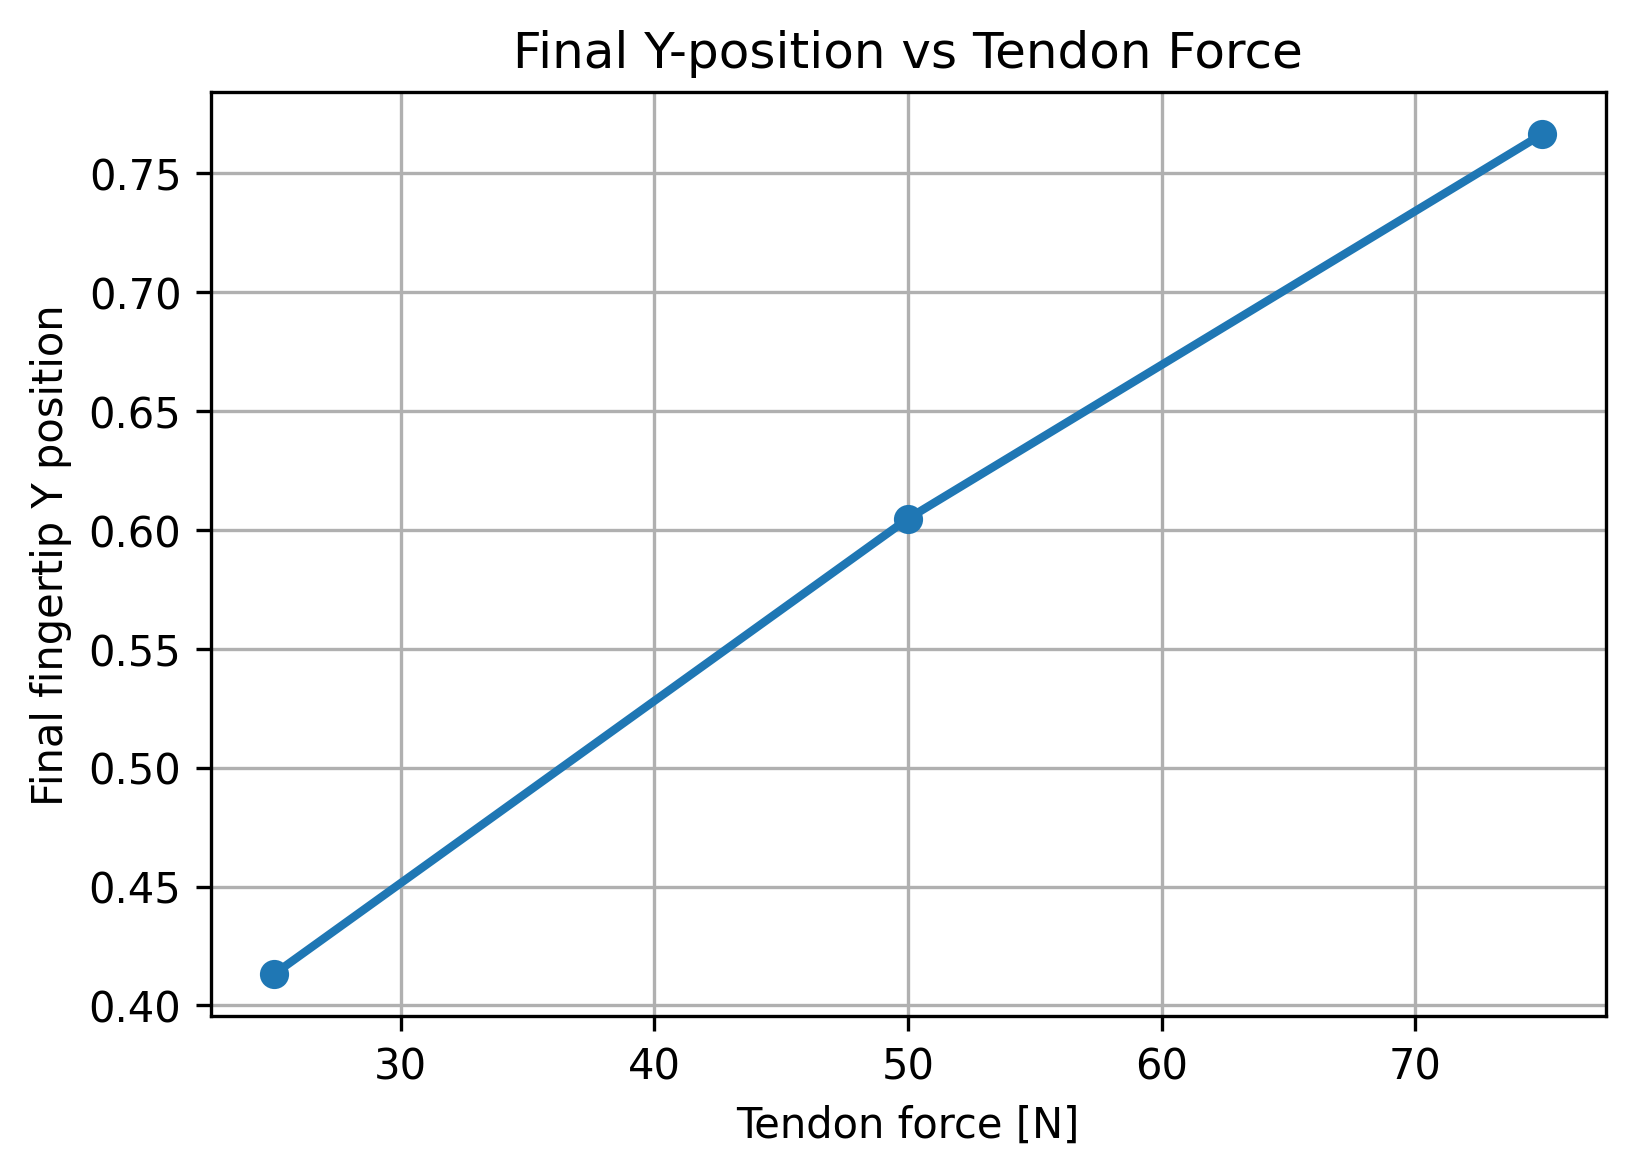
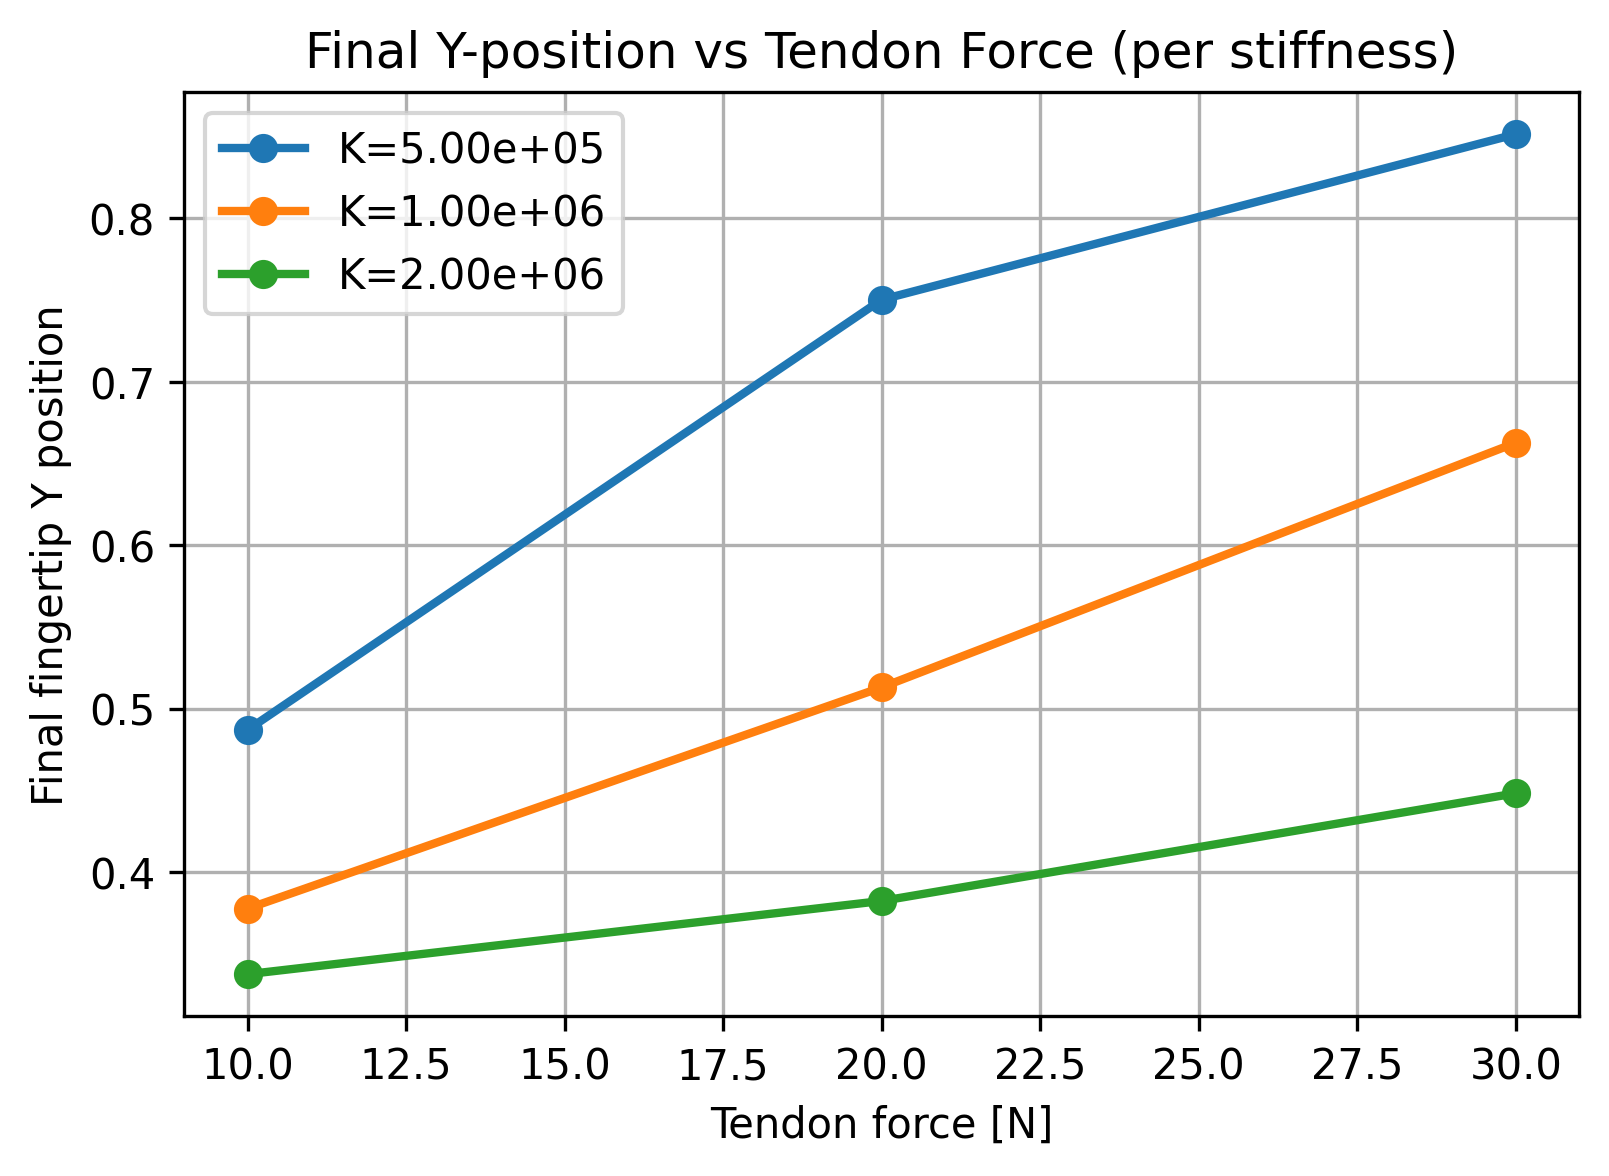
variable stiffness added in plots

diff --git a/code/forward_forces.py b/code/forward_forces.py
@@ -638,6 +638,30 @@ class FEMTendon:
         tip_traj = np.array(tip_traj)
 
         return tip_traj
+    
+    def set_stiffness(self, K: float):
+        """
+        Set a uniform stiffness K (bulk modulus, same meaning as builder.init_K)
+        for all tet blocks and update the material parameters.
+        """
+        logK = float(np.log(K))  # natural log, consistent with sample_logk
+
+        # create Warp array for per-block log(K)
+        self.log_K_warp = wp.from_numpy(
+            np.zeros(self.block_num, dtype=np.float32) + logK,
+            dtype=wp.float32,
+            requires_grad=self.requires_grad,
+        )
+
+        # push to tet_materials
+        wp.launch(
+            update_materials,
+            dim=len(self.model.tet_materials),
+            inputs=[self.log_K_warp, self.v, self.tet_block_ids],
+            outputs=[self.model.tet_materials],
+        )
+
+        
 
 
 if __name__ == "__main__":
@@ -689,103 +713,64 @@ if __name__ == "__main__":
         finger_transform = None
         init_finger = None
 
-        # choose forces to test
-        force_values = [25.0,50.0,75.0]
-        #force_values = [50.0]
-        trajectories = {}  # force -> (T, 3)
-        all_rows = []      # for CSV: list of [force, t, x, y, z]
-        sample_dt = {}   # force -> time step
+        force_values = [10.0, 20.0, 30.0]
+        stiffness_values = [5e5, 1e6, 2e6]
 
-        for F in force_values:
-            print(f"\n=== Running simulation with tendon force {F} ===")
+        trajectories = {}   # (F, K) -> (T, 3)
+        sample_dt = {}      # (F, K) -> dt
 
-            # new instance per force so initial state is clean
-            tendon = FEMTendon(
-                stage_path=args.stage_path,
-                num_frames=args.num_frames,
-                verbose=args.verbose,
-                save_log=False,
-                log_prefix=args.log_prefix,
-                is_render=args.is_render,              # no USD render needed for now
-                kernel_seed=np.random.randint(0, 10000),
-                train_iters=args.pose_iters,
-                object_rot=object_rot,
-                object_density=args.object_density,
-                ycb_object_name=args.object_name,
-                use_graph=args.use_graph,
-                finger_len=finger_len,
-                finger_rot=finger_rot,
-                finger_width=finger_width,
-                scale=scale,
-                finger_transform=finger_transform,
-                finger_num=args.finger_num,
-                quick_viz=args.quick_viz,
-                quick_viz_stride = args.quick_viz_stride,
-                quick_viz_interval=args.quick_viz_interval,
-                quick_viz_every=args.quick_viz_every,
-                quick_viz_save=args.quick_viz_save,
-                quick_viz_elev=args.quick_viz_elev,
-                quick_viz_azim=args.quick_viz_azim,
-                init_finger=init_finger)
+        for K in stiffness_values:
+            print(f"\n=== Using stiffness K = {K:.2e} ===")
+            for F in force_values:
+                print(f"   -> Running simulation with tendon force {F} N")
 
-            tendon.set_tendon_force(F)
-            tip_traj = tendon.run_and_record_tip(finger_index=0)  # (T,3)
-            trajectories[F] = tip_traj
-            # store time step for this run
-            sample_dt[F] = tendon.sim_dt
+                tendon = FEMTendon(
+                    stage_path=args.stage_path,
+                    num_frames=args.num_frames,
+                    verbose=args.verbose,
+                    save_log=False,
+                    log_prefix=args.log_prefix,
+                    is_render=args.is_render,
+                    kernel_seed=np.random.randint(0, 10000),
+                    train_iters=args.pose_iters,
+                    object_rot=object_rot,
+                    object_density=args.object_density,
+                    ycb_object_name=args.object_name,
+                    use_graph=args.use_graph,
+                    finger_len=finger_len,
+                    finger_rot=finger_rot,
+                    finger_width=finger_width,
+                    scale=scale,
+                    finger_transform=finger_transform,
+                    finger_num=args.finger_num,
+                    quick_viz=args.quick_viz,
+                    quick_viz_stride=args.quick_viz_stride,
+                    quick_viz_interval=args.quick_viz_interval,
+                    quick_viz_every=args.quick_viz_every,
+                    quick_viz_save=args.quick_viz_save,
+                    quick_viz_elev=args.quick_viz_elev,
+                    quick_viz_azim=args.quick_viz_azim,
+                    init_finger=init_finger,
+                )
 
+                tendon.set_stiffness(K)
+                tendon.set_tendon_force(F)
 
-        # ---------- Matplotlib plot (all forces, full trajectories) ----------
-        plt.figure(figsize=(8, 6))
+                tip_traj = tendon.run_and_record_tip(finger_index=0)  # (T, 3)
 
-        for F, traj in trajectories.items():
-            if traj.size == 0:
-                print(f"Skipping F={F} because trajectory is empty.")
-                continue
+                trajectories[(F, K)] = tip_traj
+                sample_dt[(F, K)] = tendon.sim_dt
 
-            # filter out NaNs/Infs if any
-            if traj.ndim != 2 or traj.shape[1] != 3:
-                print(f"Skipping F={F}: unexpected traj shape {traj.shape}")
-                continue
+                # just to confirm:
+                K_current = float(np.exp(tendon.log_K_warp.numpy()[0]))
+                print(f"Force {F} N used stiffness K = {K_current:.3e}")
 
-            mask = np.isfinite(traj).all(axis=1)
-            if not np.any(mask):
-                print(f"Skipping F={F}: no finite points.")
-                continue
-
-            # extract and reverse so that t=0 is at the "start" of the curve
-            x = traj[mask, 0][::-1]
-            y = traj[mask, 1][::-1]   # (x, y) plane
-
-            if x.size == 0:
-                print(f"Skipping F={F}: no valid samples after masking.")
-                continue
-
-            plt.plot(x, y, label=f"{F:.1f} N")
-
-        plt.xlabel("Tip X position")
-        plt.ylabel("Tip Y position")
-        plt.title("Fingertip trajectory for different tendon forces")
-        plt.grid(True)
-        plt.legend()
-
-        ax = plt.gca()
-        ax.set_aspect('equal', adjustable='box')
-        ax.invert_xaxis()   # flip X axis direction
-        #ax.invert_yaxis()   # flip Y axis direction  (optional)
-
-        out_path = "fingertip_trajectories.png"
-        plt.savefig(out_path, dpi=300, bbox_inches="tight")
-        print(f"Saved trajectory figure to {out_path}")
-        # plt.show()
-
-        # ---------- New: Y-position vs time ----------
+        # ---------- Y-position vs time ----------
         plt.figure(figsize=(8, 4))
 
-        for F, traj in trajectories.items():
+        for (F, K), traj in trajectories.items():
             if traj.size == 0:
                 continue
-
             if traj.ndim != 2 or traj.shape[1] != 3:
                 continue
 
@@ -793,14 +778,13 @@ if __name__ == "__main__":
             if not np.any(mask):
                 continue
 
-            # we want chronological order now → no [::-1] here
-            y = traj[mask, 1]   # y-coordinate
+            y = traj[mask, 1]
             n = y.size
+            dt = float(sample_dt[(F, K)])
+            t = np.arange(n) * dt
 
-            dt = float(sample_dt[F])
-            t = np.arange(n) * dt   # time in seconds
-
-            plt.plot(t, y, label=f"{F:.1f} N")
+            label = f"F={F:.1f} N, K={K:.2e}"
+            plt.plot(t, y, label=label)
 
         plt.xlabel("Time [s]")
         plt.ylabel("Tip Y position")
@@ -811,13 +795,14 @@ if __name__ == "__main__":
         out_path_y = "fingertip_y_vs_time.png"
         plt.savefig(out_path_y, dpi=300, bbox_inches="tight")
         print(f"Saved Y-vs-time figure to {out_path_y}")
-        # plt.show()
 
-        # ---------- New Plot: Final tip Y vs tendon force ----------
-        forces = []
-        final_y_positions = []
+        # ---------- Final tip Y vs tendon force (one curve per stiffness) ----------
+        from collections import defaultdict
 
-        for F, traj in trajectories.items():
+        forces_by_K = defaultdict(list)
+        final_y_by_K = defaultdict(list)
+
+        for (F, K), traj in trajectories.items():
             if traj.size == 0:
                 continue
 
@@ -826,39 +811,38 @@ if __name__ == "__main__":
                 continue
 
             traj_valid = traj[mask]
-
-            # final Y position (take last timestep)
             y_final = traj_valid[-1, 1]
 
-            forces.append(F)
-            final_y_positions.append(y_final)
+            forces_by_K[K].append(F)
+            final_y_by_K[K].append(y_final)
 
-        # sort by force for a clean plot
-        forces = np.array(forces)
-        final_y_positions = np.array(final_y_positions)
+        plt.figure(figsize=(6, 4))
 
-        sort_idx = np.argsort(forces)
-        forces = forces[sort_idx]
-        final_y_positions = final_y_positions[sort_idx]
+        for K, forces_list in forces_by_K.items():
+            forces_arr = np.array(forces_list)
+            y_arr = np.array(final_y_by_K[K])
 
-        plt.figure(figsize=(6,4))
-        plt.plot(forces, final_y_positions, "o-", lw=2)
+            # sort by force for a clean line
+            idx = np.argsort(forces_arr)
+            forces_arr = forces_arr[idx]
+            y_arr = y_arr[idx]
+
+            plt.plot(forces_arr, y_arr, "o-", lw=2, label=f"K={K:.2e}")
+
         plt.xlabel("Tendon force [N]")
         plt.ylabel("Final fingertip Y position")
-        plt.title("Final Y-position vs Tendon Force")
+        plt.title("Final Y-position vs Tendon Force (per stiffness)")
         plt.grid(True)
+        plt.legend()
 
         out_path_force = "final_y_vs_force.png"
         plt.savefig(out_path_force, dpi=300, bbox_inches="tight")
         print(f"Saved final-Y-vs-force plot to {out_path_force}")
 
-
-
-
         # optional: still allow quick_viz / render for the last run if you want
-        # (uncomment and reuse one of the tendon objects if needed)
         if args.is_render:
             tendon.render()
             tendon.renderer.save()
         if args.quick_viz:
             tendon.quick_visualize()
+
